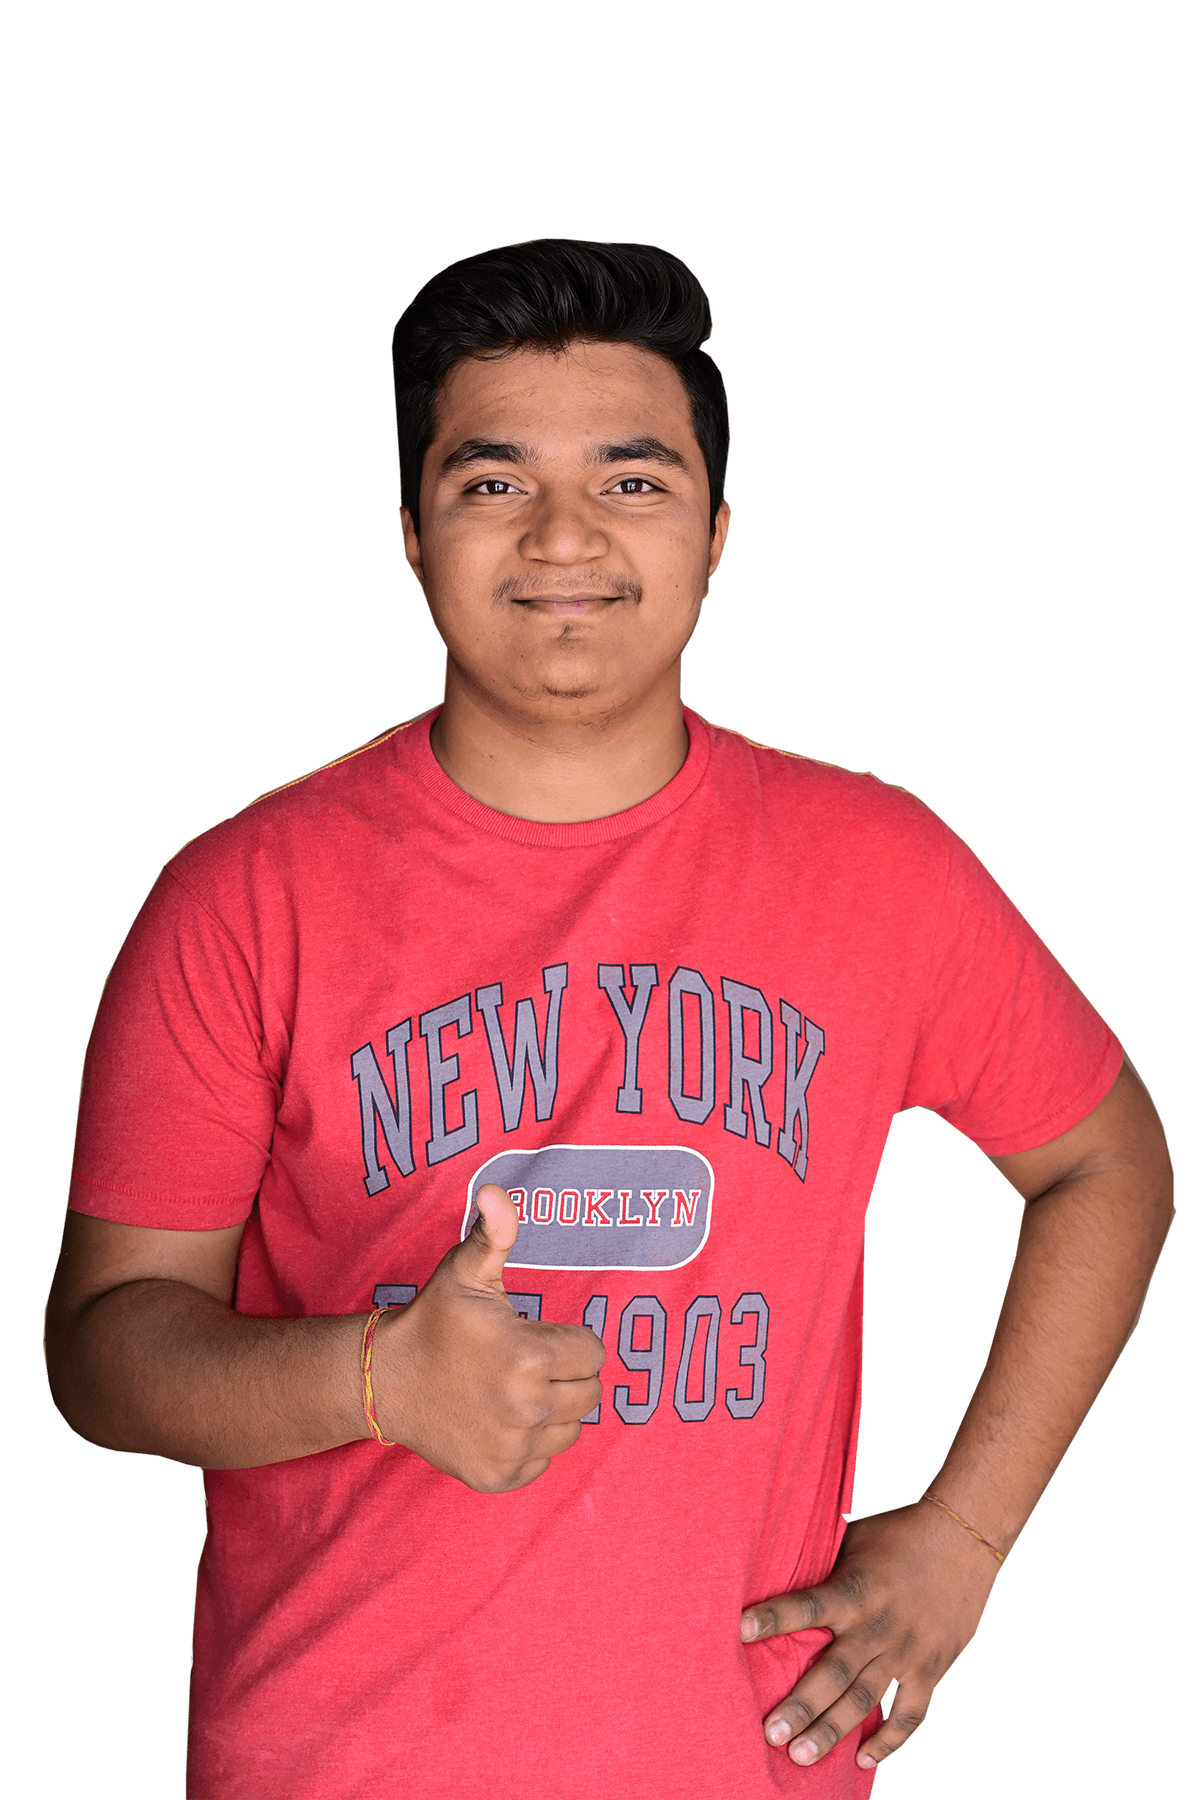
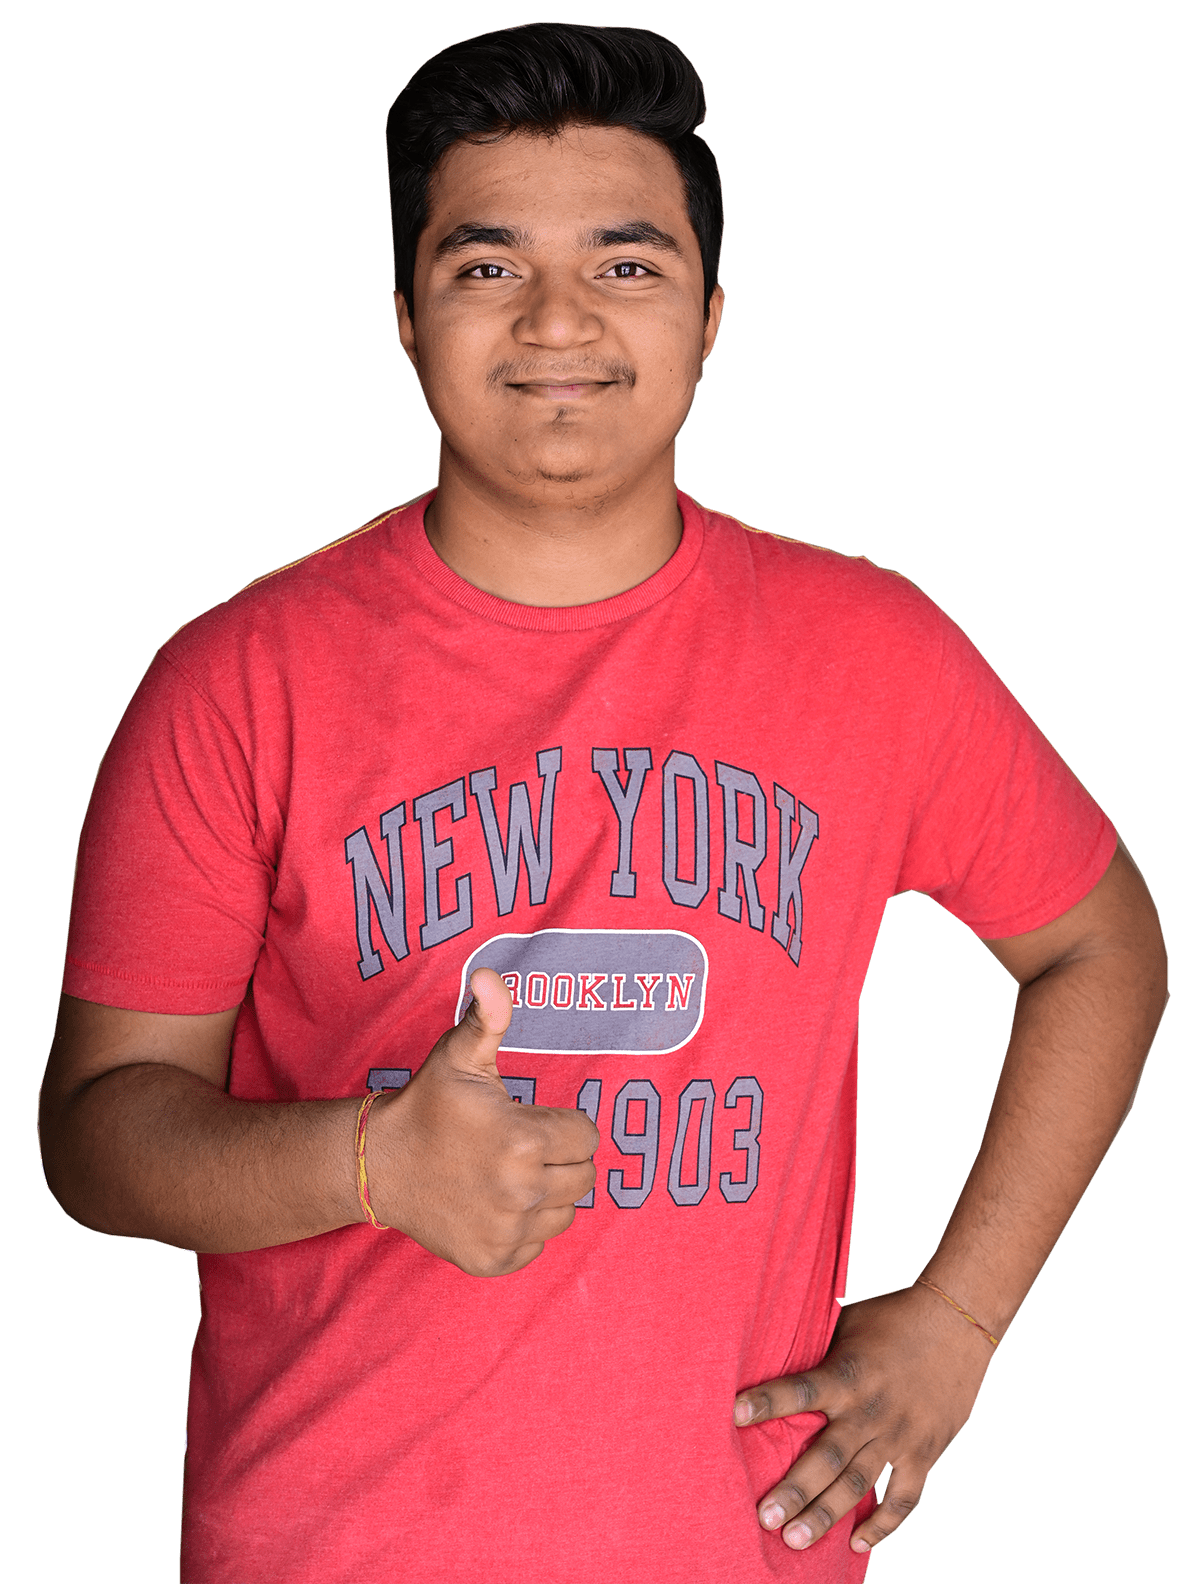
🐛 FIX:  sizigs overflow

diff --git a/frontend_react/src/container/Header/Header.scss b/frontend_react/src/container/Header/Header.scss
@@ -1,4 +1,5 @@
 #home {
+  height: 100vh;
   position: relative;
   background: url("../../assets/bgIMG.png");
   background-size: cover;
@@ -183,6 +184,7 @@
   img {
     //model image
     width: 100%;
+
     object-fit: contain;
     z-index: 1;
   }
